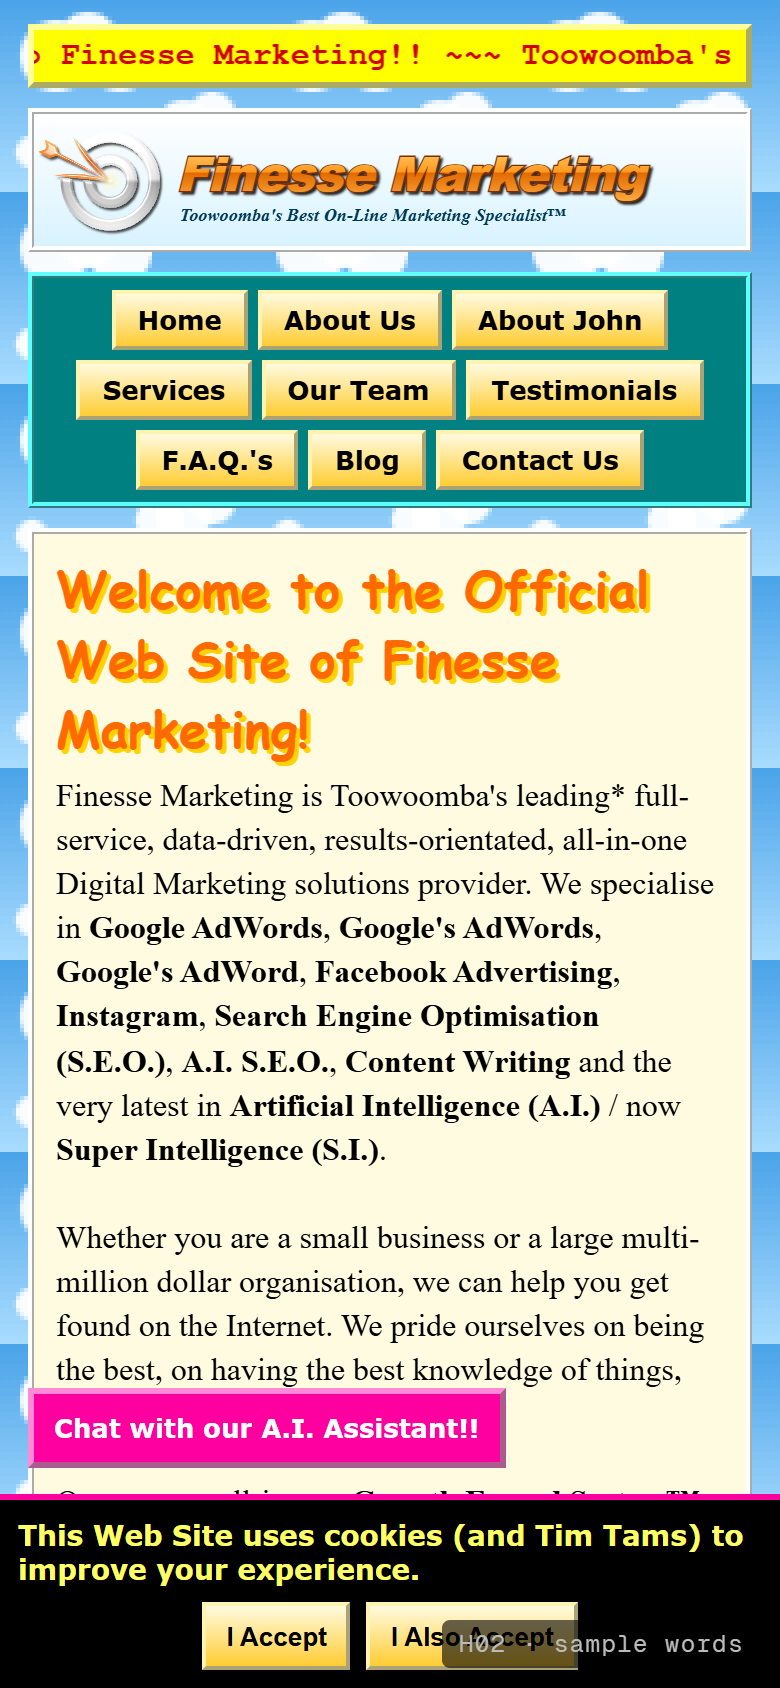
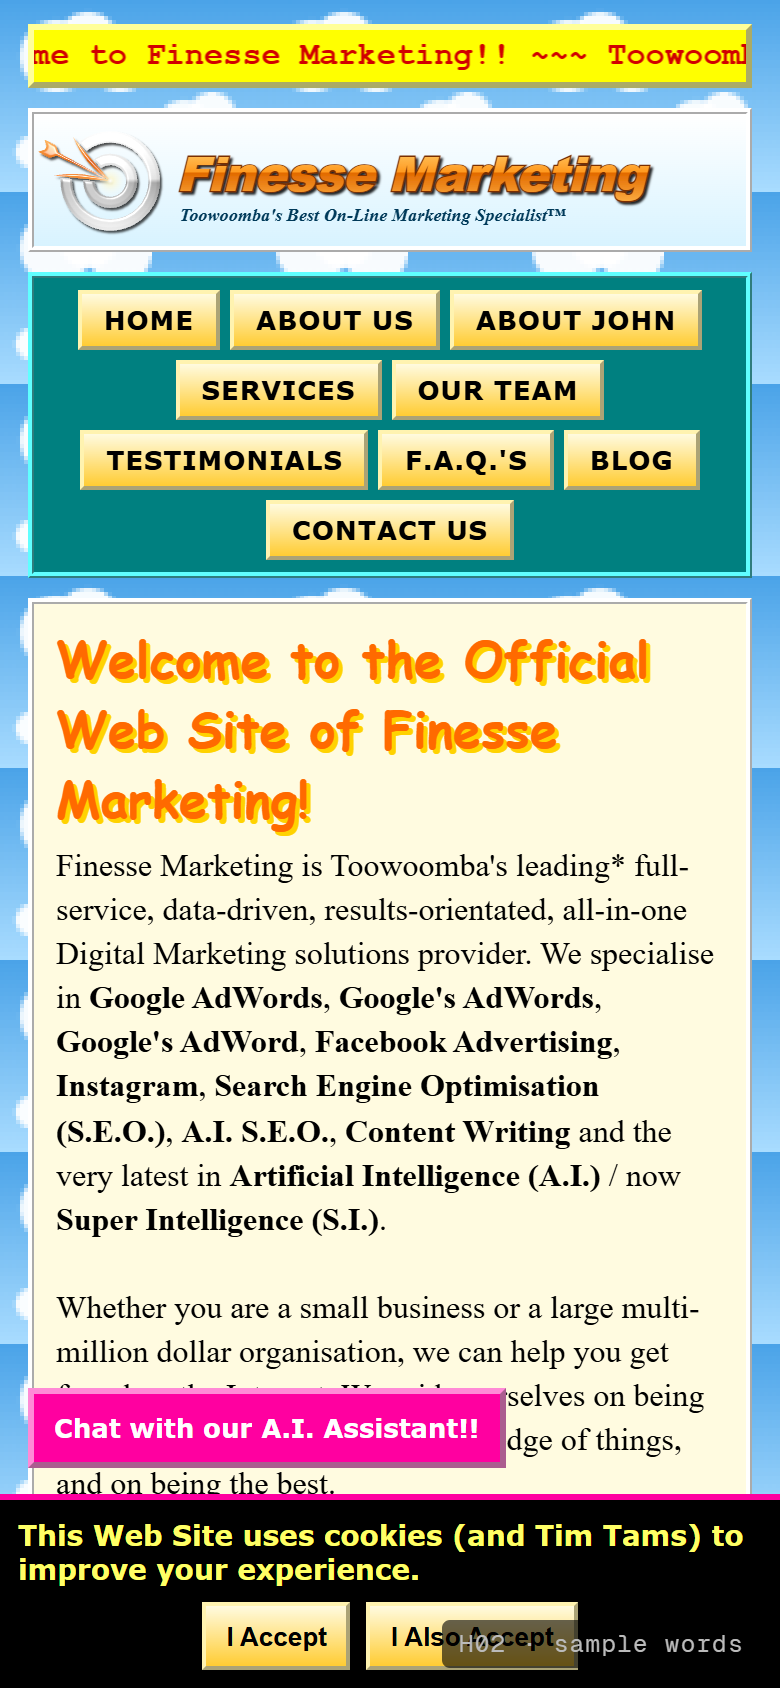
Hero ideas preview: final Ninety-six polish

diff --git a/look/website-hero/ninety-six.html b/look/website-hero/ninety-six.html
@@ -48,6 +48,7 @@
 .logo96.wob{animation:wob .45s ease-in-out}
 @keyframes wob{25%{transform:rotate(-2deg) scale(1.02)}75%{transform:rotate(2deg) scale(1.02)}}
 .bar96{grid-column:1/-1;display:flex;flex-wrap:wrap;gap:5px;justify-content:center;background:#008080;border:3px ridge #4fd1d1;padding:6px}
+.bar96 a{text-transform:uppercase;letter-spacing:.04em}
 .bar96 a,.b96{display:inline-block;font:bold 13px Verdana,Arial,sans-serif;color:#000;text-decoration:none;background:linear-gradient(#fffbe0,#ffcc33);border:2px outset #fff3b0;padding:5px 11px;min-height:30px}
 .bar96 a:hover{background:linear-gradient(#fff,#ff9a1f)}
 .side{display:grid;gap:10px;align-content:start}
@@ -96,6 +97,8 @@
 .rant p{margin:6px 0}
 .rant .gpt{font:italic 13px Arial;color:#666;background:#f2f2f2;border:1px dashed #aaa;padding:4px 6px}
 .gptl{list-style:none;margin:4px 0 4px 4px}
+.spaced{grid-column:1/-1;text-align:center;font:bold 15px "Courier New",monospace;color:#003a5a;background:#fff36b;border:2px outset #fff;padding:3px;letter-spacing:.08em}
+.slogan{font:italic bold 18px Georgia,serif;color:#c00000;text-align:center;margin:8px 0 0;text-shadow:1px 1px 0 #ffd200}
 .kw{grid-column:1/-1;font:12px/1.5 Arial,sans-serif;color:#2b5d7a;text-align:justify;background:rgba(255,255,255,.55);padding:6px 8px;word-spacing:1px}
 .cookie{position:sticky;bottom:0;z-index:4;display:flex;flex-wrap:wrap;gap:8px;align-items:center;justify-content:center;background:#000;color:#ffff66;font:bold 14px Verdana,Arial,sans-serif;padding:9px;border-top:3px solid #ff00a0}
 .cookie button{font:bold 13px Arial;background:linear-gradient(#fffbe0,#ffcc33);border:2px outset #fff3b0;padding:4px 10px;min-height:34px;cursor:pointer}
@@ -190,6 +193,7 @@
         <text x="172" y="88" font-family="'Arial Black',Impact,sans-serif" font-size="58" font-weight="900" font-style="italic" fill="url(#word)" stroke="#7a2f00" stroke-width="3" paint-order="stroke" filter="url(#drop)" letter-spacing="-1">Finesse Marketing</text>
         <text x="176" y="124" font-family="'Times New Roman',serif" font-size="22" font-style="italic" font-weight="bold" fill="#003a5a">Toowoomba's Best On-Line Marketing Specialist&#8482;</text>
       </svg></button></div>
+    <p class="spaced" aria-hidden="true">W E L C O M E &nbsp; T O &nbsp; O U R &nbsp; W E B &nbsp; S I T E . . .</p>
     <nav class="bar96" aria-label="Old site menu"><a href="#" title="You are already Home. Welcome Home.">Home</a><a href="#">About Us</a><a href="#">About John</a><a href="#">Services</a><a href="#">Our Team</a><a href="#">Testimonials</a><a href="#">F.A.Q.'s</a><a href="#">Blog</a><a href="#">Contact Us</a></nav>
     <div class="side l">
       <div class="box svc"><h3>Our Services</h3>
@@ -205,6 +209,7 @@
       </div>
       <div class="box"><h3>Built For:</h3><p style="font:13px/1.5 Arial">Tradies &#10003;<br>Coaches &#10003;<br>Consultants &#10003;<br>Influencers &#10003;<br>Large multi-million dollar organisations &#10003;<br>Bev &#10003;<br>Everyone &#10003;</p></div>
       <div class="box"><h3>Text Size</h3><p style="text-align:center"><button type="button" class="b96 fs" style="font-size:12px;cursor:pointer">A</button> <button type="button" class="b96 fs" style="font-size:16px;cursor:pointer">A</button> <button type="button" class="b96 fs" style="font-size:20px;cursor:pointer">A</button><br><span style="font:11px Arial">All three make it bigger. For Bev.</span></p><p style="text-align:center;margin-top:6px"><button type="button" class="b96" id="fav" style="cursor:pointer">Add to Favourites!!</button></p></div>
+      <div class="box svc"><h3>Useful Links</h3><a href="#">Google (the search engine)</a><a href="#">Google AdWords</a><a href="#">Facebook</a><a href="#">Twitter</a><a href="#">The Internet</a><a href="#">Our Web Site (this one)</a></div>
       <div class="box"><h3>Toowoomba Weather</h3><p style="text-align:center;font:bold 15px Arial"><img data-sprite="sun" alt="" width="40" height="40" style="vertical-align:middle;image-rendering:pixelated"> 23&deg;C<br><span style="font-weight:normal">Partly Marketing</span></p></div>
       <div class="box social"><h3>Connect With Us!!</h3>
         <span style="background:#3b5998" title="Like us on Facebook. Or just like us.">Like us on Facebook!!</span>
@@ -216,7 +221,8 @@
     </div>
     <div class="mid">
       <div class="box welcome"><h2 title="Heading (welcome)">Welcome to the Official Web Site of Finesse Marketing!</h2>
-        <p>Finesse Marketing is Toowoomba's leading* full-service, data-driven, results-orientated, all-in-one Digital Marketing solutions provider. We specialise in <b>Google AdWords</b>, <b>Google's AdWords</b>, <b>Google's AdWord</b>, <b>Facebook Advertising</b>, <b>Instagram</b>, <b>Search Engine Optimisation (S.E.O.)</b>, <b>A.I. S.E.O.</b>, <b>Content Writing</b> and the very latest in <b>Artificial Intelligence (A.I.)</b> / now <b>Super Intelligence (S.I.)</b>.<br><br>Whether you are a small business or a large multi-million dollar organisation, we can help you get found on the Internet. We pride ourselves on being the best, on having the best knowledge of things, and on being the best.<br><br>Our proven, all-in-one <b>Growth Funnel System&#8482;</b> captures your leads, nurtures your leads and converts your leads into a pipeline of results-driven Results, to get your business to <b><u>Number One on Google at all times</u></b>*. You have nothing to lose!! Contact us today to take your business to the next level, and then the level after that!!</p></div>
+        <p>Finesse Marketing is Toowoomba's leading* full-service, data-driven, results-orientated, all-in-one Digital Marketing solutions provider. We specialise in <b>Google AdWords</b>, <b>Google's AdWords</b>, <b>Google's AdWord</b>, <b>Facebook Advertising</b>, <b>Instagram</b>, <b>Search Engine Optimisation (S.E.O.)</b>, <b>A.I. S.E.O.</b>, <b>Content Writing</b> and the very latest in <b>Artificial Intelligence (A.I.)</b> / now <b>Super Intelligence (S.I.)</b>.<br><br>Whether you are a small business or a large multi-million dollar organisation, we can help you get found on the Internet. We pride ourselves on being the best, on having the best knowledge of things, and on being the best.<br><br>Our proven, all-in-one <b>Growth Funnel System&#8482;</b> captures your leads, nurtures your leads and converts your leads into a pipeline of results-driven Results, to get your business to <b><u>Number One on Google at all times</u></b>*. You have nothing to lose!! Contact us today to take your business to the next level, and then the level after that!!<br><br>Probably the hardest-working Digital Marketing company in Toowoomba.* Please browse our Web Site and click with confidence!!</p>
+        <p class="slogan">Marketing... the Finesse way!!!</p></div>
       <div class="box"><h3>Our Proven 3-Step Process</h3><p style="text-align:center;font:bold 18px 'Comic Sans MS','Comic Sans',cursive"><span style="color:#ff6a00">Step 1:</span> Funnel &nbsp;&#8594;&nbsp; <span style="color:#ff6a00">Step 2:</span> Also Funnel &nbsp;&#8594;&nbsp; <span style="color:#ff6a00">Step 3:</span> Results!!</p></div>
       <div class="box"><h3>What's New? <span class="new">NEW!</span></h3><ul class="news">
         <li>17-11-2026: We have updated our Web Site. Can you spot the change? (It is this sentence.)</li>
@@ -299,7 +305,7 @@
     <a class="cta96" href="#" title="Click HERE to click here">CLICK HERE to Download our FREE Growth Funnel Blueprint (PDF, 0 pages)!!!</a>
     <p style="grid-column:1/-1;text-align:center"><button type="button" class="b96" id="quote" style="font-size:16px;padding:8px 18px;cursor:pointer;position:relative;transition:transform .25s">Get A Quote!!</button></p>
     <p class="kw" id="kw">Google AdWords Toowoomba, Google's AdWords Toowoomba City, Facebook Ads East Toowoomba, Twitter Marketing South Toowoomba, A.I. SEO North Toowoomba, Google AdWords Middle Ridge, Web Site Design Rangeville, On-Line Marketing Newtown, Number One on Google Kearneys Spring, Instagram Specialist Harristown, S.I. Marketing Wilsonton, A.I. Glenvale, Facebook Darling Heights, Google Drayton, Data-Driven Centenary Heights, AdWords Mount Lofty, SEO Harlaxton, Marketing Rockville, Web Site Cranley, Google's AdWords Highfields, AdWords Cabarlah, Marketing Westbrook, SEO Wyreema, Facebook Ads Cambooya, Google Kingsthorpe, A.I. Gowrie Junction, Twitter Meringandan, On-Line Oakey, Number One on Google Pittsworth, AdWords Crows Nest, S.I. Goombungee, Marketing Clifton, SEO Millmerran, Google AdWords Dalby, Web Site Warwick, Facebook Allora, Funnels Prince Henry Heights, Growth Funnel Mount Kynoch, Pipeline Redwood, Marketing Darling Downs, Best Marketing Darling Downs, Cheap Marketing Darling Downs, Marketing Near Me, Marketing Near You, Toowomba Marketing, Toowoombah AdWords, Twoomba SEO, Towoomba Google, Toowoomba Toowoomba Toowoomba, marketing marketing, google</p>
-    <p class="foot" id="foot"><a href="#">Home</a> | <a href="#">Services</a> | <a href="#">Privacy Policy</a> | <a href="#">Terms &amp; Conditions</a> | <a href="#">Site Map</a> | <a href="#">Contact the Webmaster</a><br>Copyright &copy; 2026 J-Money Productions&#8482;. All Rights Reserved. Last updated: 17-11-2026.<br><span class="fine">*Not a guarantee. Results not typical. Rankings may vary. Number One not available at all times. **Our Number One priority may vary.</span></p>
+    <p class="foot" id="foot"><a href="#">Home</a> | <a href="#">Services</a> | <a href="#">Privacy Policy</a> | <a href="#">Terms &amp; Conditions</a> | <a href="#">Site Map</a> | <a href="#">Contact the Webmaster</a><br>Copyright &copy; 2026 J-Money Productions&#8482;. All Rights Reserved. Last updated: 17-11-2026.<br>This Web Site is best viewed at 1920 x 1080 on a desktop computer with your eyes.<br><span class="fine">*Not a guarantee. Results not typical. Rankings may vary. Number One not available at all times. **Our Number One priority may vary.</span></p>
   </div>
   <div class="cookie" id="cookie">This Web Site uses cookies (and Tim Tams) to improve your experience. <button type="button">I Accept</button><button type="button">I Also Accept</button></div>
   <button class="bot" id="bot" type="button">Chat with our A.I. Assistant!!</button>
